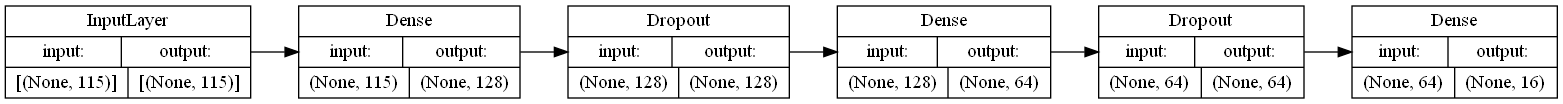
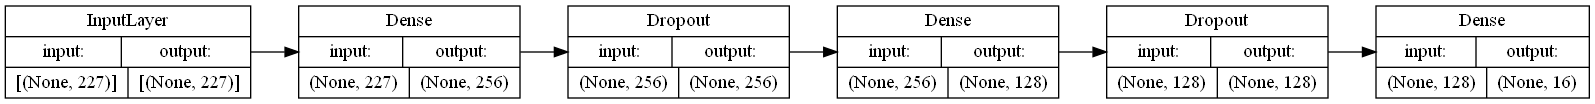
add dual-language support

diff --git a/src/server.py b/src/server.py
@@ -7,6 +7,7 @@ from flask import Flask, request, jsonify, render_template, url_for
 from flask_cors import CORS
 from keras.models import Model, load_model
 from dotenv import load_dotenv
+from polyglot.detect import Detector
 
 from src.shared_message_queue import put_message_client
 from src.ext.prompt_group import PromptGroup
@@ -16,6 +17,12 @@ from src.tasks import notifyTelegram
 from src.wrappers import UserIterations, ExpiringDict
 
 from src.classify import classify
+
+
+SUPPORTED_LANGUAGES = (
+    'en',
+    'km'
+)
 
 
 app = Flask(__name__)
@@ -80,20 +87,22 @@ def chat_v2_post():
                     response = {}
                     
                     if contexts.get(sender_psid) is None:
-                        results = classify(model, message, words, classes)
+                        results, lang = classify(model, message, words, classes)
+                        if lang not in SUPPORTED_LANGUAGES:
+                            lang = 'en'
                         
                         if results == []:
-                            response['text'] = random.choice(intents['default_intent']['responses'])
+                            response['text'] = random.choice(intents['default_intent']['responses'][lang])
                         else:
                             for intent in intents['intents']:
                                 if intent['tag'] == results[0][0]:
                                     if 'context_filter' in intent:
                                         if contexts.get(sender_psid) == intent['context_filter']:
-                                            response['text'] = random.choice(intent['responses'])
+                                            response['text'] = random.choice(intent['responses'][lang])
                                             if 'context_set' in intent:
                                                 contexts[sender_psid] = intent['context_set']
                                     else:
-                                        response['text'] = random.choice(intent['responses'])
+                                        response['text'] = random.choice(intent['responses'][lang])
                                         if 'context_set' in intent:
                                             contexts[sender_psid] = intent['context_set']
                                     
@@ -105,7 +114,12 @@ def chat_v2_post():
                             context = contexts[sender_psid]
                             handler = context_handlers[context]
                             
-                            response['text'], context_should_drop = handler(sender_psid, message, os.getenv('PAGE_ACCESS_TOKEN'))
+                            try:
+                                lang = Detector(message, quiet=True).language.code
+                            except Exception as e:
+                                lang = 'en'
+                            
+                            response['text'], context_should_drop = handler(sender_psid, message, os.getenv('PAGE_ACCESS_TOKEN'), lang=lang)
                             
                             if context_should_drop:
                                 print(f"Dropping context for {sender_psid}: {context}")
@@ -133,22 +147,24 @@ def chat_v2t():
         
         response = {}
         if contexts.get(xsender_id) is None:
-            results = classify(model, sentence, words, classes)
+            results, lang = classify(model, sentence, words, classes)
+            if lang not in SUPPORTED_LANGUAGES:
+                lang = 'en'
             
             if results == []:
-                response['text'] = random.choice(intents['default_intent']['responses'])
+                response['text'] = random.choice(intents['default_intent']['responses'][lang])
             
             else:
                 for intent in intents['intents']:
                     if intent['tag'] == results[0][0]:
                         if 'context_filter' in intent:
                             if contexts.get(xsender_id) == intent['context_filter']:
-                                response['text'] = random.choice(intent['responses'])
+                                response['text'] = random.choice(intent['responses'][lang])
                                 if 'context_set' in intent:
                                     contexts[xsender_id] = intent['context_set']
                         
                         else:
-                            response['text'] = random.choice(intent['responses'])
+                            response['text'] = random.choice(intent['responses'][lang])
                             if 'context_set' in intent:
                                 contexts[xsender_id] = intent['context_set']
                         
@@ -165,12 +181,18 @@ def chat_v2t():
                     'last_name': body['last_name'],
                 }
                 
-                response['text'], context_should_drop = handler(xsender_id, sentence, telegram=True, telegram_data=data)
+                try:
+                    lang = Detector(sentence, quiet=True).language.code
+                except Exception as e:
+                    lang = 'en'
+                
+                response['text'], context_should_drop = handler(xsender_id, sentence, telegram=True, telegram_data=data, lang=lang)
                 
                 if context_should_drop:
                     print(f"Dropping context for {xsender_id}: {context}")
                     contexts.pop(xsender_id)
     except KeyError as e:
+        e.printStackTrace()
         return jsonify({'error': 'invalid request', 'message': 'missing keys'}), 400
     except Exception as e:
         e.printStackTrace()
@@ -189,7 +211,7 @@ def chat():
     print(request.json)
     
     if contexts.get(request.json['uid']) is None:
-        results = classify(model, sentence, words, classes, threshold=0.75)
+        results, lang = classify(model, sentence, words, classes, threshold=0.75)
     
         response = {}
         

diff --git a/src/classify.py b/src/classify.py
@@ -1,4 +1,8 @@
 import nltk
+import khmernltk
+
+from polyglot.detect import Detector
+
 from nltk.stem.lancaster import LancasterStemmer
 stemmer = LancasterStemmer()
 
@@ -8,13 +12,27 @@ import numpy as np
 from keras.models import Model
 
 def clean_up_sentences(sentence):
-    sentence_words = nltk.word_tokenize(sentence)
+    try:
+        lang = Detector(sentence).language.code
+    except Exception as e:
+        lang = 'en'
+        
+    if lang == 'km':
+        sentence_words = khmernltk.word_tokenize(sentence)
+    else:
+        sentence_words = nltk.word_tokenize(sentence)
+    
     sentence_words = [stemmer.stem(word.lower()) for word in sentence_words]
     return sentence_words
 
 
 def bow(sentence, words, show_details=True):
     sentence_words = clean_up_sentences(sentence)
+    try:
+        lang = Detector(sentence).language.code
+    except Exception as e: 
+        lang = 'en'
+    
     bag = [0] * len(words)
     for s in sentence_words:
         for i, w in enumerate(words):
@@ -23,11 +41,25 @@ def bow(sentence, words, show_details=True):
                 if show_details:
                     print("found in bag: %s" % w)
                     
-    return np.array(bag)
+    return np.array(bag), lang
 
 
-def classify(model: Model, sentence: str, words: list[str], classes: list[str], threshold: float = 0.25):
-    input_data = pd.DataFrame([bow(sentence, words)], dtype=float, index=['input'])
+def classify(model: Model, sentence: str, words: list[str], classes: list[str], threshold: float = 0.25) -> tuple[list[tuple[str, str]], str]:
+    """Classify the sentence using the model and return the intent and the primary language of the sentence.
+    Falls back to English if failed to detect the language.
+
+    Args:
+        model (Model): The model to use for classification.
+        sentence (str): The sentence to predict the intent.
+        words (list[str]): The list of words.
+        classes (list[str]): The list of classes.
+        threshold (float, optional): The confidence threshold of intents to accept. Defaults to 0.25.
+
+    Returns:
+        tuple[list[tuple[str, str]], str]: The list of (intent, confidence) and the primary language of the sentence.
+    """
+    bag_of_words, lang = bow(sentence, words)
+    input_data = pd.DataFrame([bag_of_words], dtype=float, index=['input'])
     results = model.predict([input_data])[0]
     results = [[i, r] for i, r in enumerate(results) if r > threshold]
     results.sort(key=lambda x: x[1], reverse=True)
@@ -36,4 +68,4 @@ def classify(model: Model, sentence: str, words: list[str], classes: list[str], 
     for r in results:
         return_list.append((classes[r[0]], str(r[1])))
         
-    return return_list
+    return return_list, lang

diff --git a/src/telegram_client/telegram_client.py b/src/telegram_client/telegram_client.py
@@ -57,30 +57,6 @@ def menu_keyboard() -> InlineKeyboardMarkup:
     keyboard = [[InlineKeyboardButton(prompt_group.name, callback_data=prompt_group.label)] for prompt_group in prompts]
     return InlineKeyboardMarkup(keyboard)
 
-def greetings(update: Update, context: CallbackContext) -> None:
-    query = update.callback_query
-    query.answer()
-    
-    random_greetings = ["Hi", "Hello", "Hey", "Hi there", "Hello there", "Hey there"]
-    sent = random.choice(random_greetings)
-    r = requests.post(f"http://localhost:{os.getenv('PORT')}/api/v2t/chat", json={"sentence": sent, 'first_name': update.effective_user.first_name, 'last_name': update.effective_user.last_name, 'sender_id': encode(update.effective_user.id)})
-
-    query.edit_message_text(
-        text=f"Prompt: `{sent}`\n\n" + r.json()['text']
-    )
-    
-def basic_info(update: Update, context: CallbackContext) -> None:
-    query = update.callback_query
-    query.answer()
-    
-    random_basic_info = ["What is CADT?", "What are the courses offered?", "What are the facilities offered?", "What is the address of CADT?", "What is the contact number of CADT?"]
-    sent = random.choice(random_basic_info)
-    r = requests.post(f"http://localhost:{os.getenv('PORT', 8080)}/api/v2t/chat", json={"sentence": sent, 'first_name': update.effective_user.first_name, 'last_name': update.effective_user.last_name, 'sender_id': encode(update.effective_user.id)})
-
-    query.edit_message_text(
-        text=f"Prompt: `{sent}`\n" + r.json()['text']
-    )
-    
 def chat(update: Update, context: CallbackContext) -> None:
     forward_user = dual_map.get(encode(update.effective_user.id))
     if forward_user:
@@ -117,8 +93,6 @@ def main() -> None:
     updater.dispatcher.add_handler(CommandHandler("start", start))
     updater.dispatcher.add_handler(CommandHandler("menu", menu))
     updater.dispatcher.add_handler(CommandHandler("help", help))
-    # updater.dispatcher.add_handler(CallbackQueryHandler(greetings, pattern="greetings"))
-    # updater.dispatcher.add_handler(CallbackQueryHandler(basic_info, pattern="basic_info"))
     
     for prompt_group in prompts:
         updater.dispatcher.add_handler(CallbackQueryHandler(dyn_func(prompt_group, updater), pattern=prompt_group.label))

diff --git a/src/_context_handlers.py b/src/_context_handlers.py
@@ -24,7 +24,7 @@ with open('misc/survey_data/rules.json', 'r') as f:
     
 scores = {}
 
-def handle_course_recommendation(sender_psid: str, sentence: str, access_token: str | None=None, telegram: bool=False, telegram_data: dict | None=None) -> tuple[str, bool]:
+def handle_course_recommendation(sender_psid: str, sentence: str, access_token: str | None=None, telegram: bool=False, telegram_data: dict | None=None, lang: str='en') -> tuple[str, bool]:
     # some codes
     
     def add_score(input_score: dict, option: int, section: str):
@@ -153,7 +153,7 @@ def handle_course_recommendation(sender_psid: str, sentence: str, access_token: 
     del scores[sender_psid]
     return f"Alright, I have calculated the scores, and the course that I recommend is: {fullname}!\n\nBTW, here's your score for each course:\nCS: {score['cs']}\nTN: {score['tn']}\nEC: {score['ec']}", True
 
-def handle_request_human(sender_psid: str, sentence: str, access_token: str | None=None, telegram: bool=False, telegram_data: dict | None=None) -> tuple[str, bool]:
+def handle_request_human(sender_psid: str, sentence: str, access_token: str | None=None, telegram: bool=False, telegram_data: dict | None=None, lang: str='en') -> tuple[str, bool]:
     if UserIterations.get(sender_psid) is None:
         UserIterations.inc(sender_psid)
         
@@ -175,7 +175,7 @@ def handle_request_human(sender_psid: str, sentence: str, access_token: str | No
         
     return "", True
 
-def handle_send_feedback(sender_psid: str, sentence: str, access_token: str | None=None, telegram: bool=False, telegram_data: dict | None=None) -> tuple[str, bool]:
+def handle_send_feedback(sender_psid: str, sentence: str, access_token: str | None=None, telegram: bool=False, telegram_data: dict | None=None, lang: str='en') -> tuple[str, bool]:
     if not hasattr(handle_send_feedback, 'feedback_type'):
         handle_send_feedback.feedback_type = None
         

diff --git a/src/build_main.py b/src/build_main.py
@@ -3,6 +3,9 @@ from src.helper import stemmer
 
 import nltk
 import numpy as np
+import khmernltk
+
+from polyglot.detect import Detector
 
 from keras.models import Sequential
 from keras.layers import Dense, Dropout
@@ -29,7 +32,13 @@ def main():
         
         for intent in intents['intents']:
             for pattern in intent['patterns']:
-                word = nltk.word_tokenize(pattern)
+                lang = Detector(pattern).language.code
+                
+                if lang == 'km':
+                    word = khmernltk.word_tokenize(pattern)
+                else:
+                    word = nltk.word_tokenize(pattern)
+                    
                 words.extend(word)
                 documents.append((word, intent['tag']))
                 if intent['tag'] not in classes:
@@ -67,9 +76,9 @@ def main():
     train_y = list(training[:, 1])
     
     model = Sequential([
-        Dense(128, input_shape=(len(train_x[0]),), activation='relu'),
+        Dense(256, input_shape=(len(train_x[0]),), activation='relu'),
         Dropout(0.5),
-        Dense(64, activation='relu'),
+        Dense(128, activation='relu'),
         Dropout(0.5),
         Dense(len(train_y[0]), activation='softmax')
     ])
